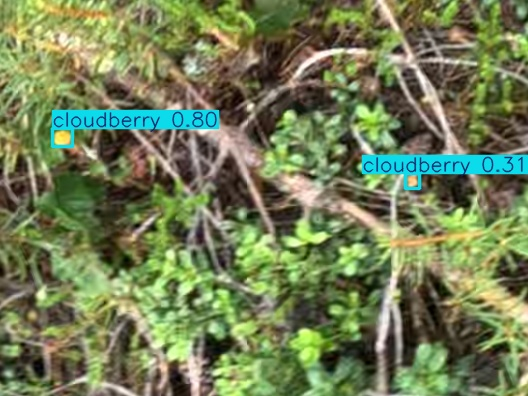
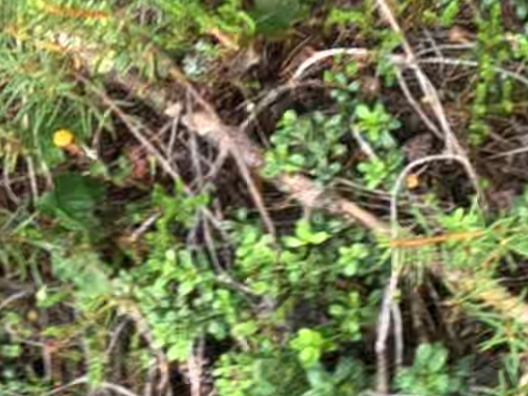
Use clean WildBe test photos as the detector examples
ml/examples/test_1-3.jpg were the detector's own output images (boxes and labels drawn on
them by the training notebook's .save()), so the tests ran the detector on photos with drawn
boxes and it reported bilberries that are not there. They are now the clean originals
(WildBe test split wildbe_00026-28, saved as JPEG like the app sends) with their true labels
(test_N.txt, YOLO format) and examples/README.md.

Tests: a new test checks the detector finds each labelled berry (test_2's cloudberry only
scores 0.15, a known miss at the default 0.25, so it is checked at 0.10). The Ultralytics
comparison now allows confidences within 0.02 (PIL vs OpenCV resizing); boxes and classes
match exactly.

Claude-Session: https://claude.ai/code/session_01S11xDQLLEN8rL3GrVjN9Kj

Changed region(s): [[0.6667, 0.3636, 1.0, 0.4848], [0.0909, 0.2727, 0.4242, 0.3939]]

diff --git a/ml/tests/test_detector.py b/ml/tests/test_detector.py
@@ -17,7 +17,34 @@ def test_counts_have_every_class_and_add_up(det):
     r = det.detect(EX / "test_1.jpg")
     assert set(r.counts) == set(CLASSES)
     assert sum(r.counts.values()) == r.total == len(r.detections)
-    assert r.counts["bilberry"] >= 1
+    assert r.counts["cloudberry"] >= 1
+
+
+def _truth(name):
+    """WildBe ground truth for an example photo: [(class, x1, y1, x2, y2)] in pixels."""
+    w, h = 528, 396
+    out = []
+    for line in (EX / name).with_suffix(".txt").read_text().split("\n"):
+        if line.strip():
+            c, cx, cy, bw, bh = line.split()
+            cx, cy, bw, bh = float(cx) * w, float(cy) * h, float(bw) * w, float(bh) * h
+            out.append((CLASSES[int(c)], cx - bw / 2, cy - bh / 2, cx + bw / 2, cy + bh / 2))
+    return out
+
+
+def _iou(a, b):
+    ix = max(0.0, min(a[2], b[2]) - max(a[0], b[0]))
+    iy = max(0.0, min(a[3], b[3]) - max(a[1], b[1]))
+    inter = ix * iy
+    return inter / ((a[2] - a[0]) * (a[3] - a[1]) + (b[2] - b[0]) * (b[3] - b[1]) - inter)
+
+
+@pytest.mark.parametrize(("name", "conf"), [("test_1.jpg", 0.25), ("test_3.jpg", 0.25),
+                                          ("test_2.jpg", 0.10)])  # test_2's berry only scores 0.15: a known miss at 0.25
+def test_finds_every_labelled_berry_in_the_clean_example_photos(det, name, conf):
+    found = det.detect(EX / name, conf=conf).detections
+    for berry, *box in _truth(name):
+        assert any(d.berry == berry and _iou(d.box, box) >= 0.5 for d in found), f"{name}: missed the {berry}"
 
 
 def test_boxes_are_inside_the_image(det):
@@ -44,11 +71,19 @@ def test_garbage_is_refused(det):
         det.detect(b"not an image")
 
 
-def test_matches_ultralytics_counts(det):
+def test_matches_ultralytics(det):
+    """Same boxes and classes as Ultralytics; confidences within 0.02 (PIL vs OpenCV resizing), so a detection
+    may only differ when its confidence is within 0.02 of the threshold."""
     yolo = pytest.importorskip("ultralytics").YOLO
     model = yolo(str(Path(__file__).resolve().parents[1] / "models/detector/v1/berry-yolo11n.onnx"), task="detect")
+    tol = 0.02
     for f in sorted(EX.glob("test_*.jpg")):
         for conf in (0.25, 0.1):
-            ours = det.detect(f, conf=conf).total
-            theirs = len(model.predict(str(f), conf=conf, imgsz=640, verbose=False)[0].boxes)
-            assert ours == theirs, (f.name, conf)
+            ours = [(d.berry, d.confidence, d.box) for d in det.detect(f, conf=conf - tol).detections]
+            r = model.predict(str(f), conf=conf - tol, imgsz=640, verbose=False)[0]
+            bx = r.boxes
+            theirs = [(r.names[int(c)], float(s), [float(v) for v in b]) for c, s, b in zip(bx.cls, bx.conf, bx.xyxy)]
+            for a_list, b_list in ((ours, theirs), (theirs, ours)):
+                for berry, sc, box in a_list:
+                    match = [x for x in b_list if x[0] == berry and _iou(x[2], box) >= 0.9 and abs(x[1] - sc) <= tol]
+                    assert match or sc < conf + tol, (f.name, conf, berry, round(sc, 3))

diff --git a/ml/README.md b/ml/README.md
@@ -27,7 +27,7 @@ uvicorn service.app:app --reload --port 8100    # reference API → http://local
 
 ```python
 from berry_ml import BerryDetector, ZoneGrid, Report, update_zone_score
-BerryDetector().detect("examples/test_1.jpg").counts            # {'bilberry': 2, ..., 'lingonberry': 1}
+BerryDetector().detect("examples/test_1.jpg").counts            # {'bilberry': 0, 'cloudberry': 2, ...}
 ZoneGrid().score_zone(ring, date="2026-07-25")["bilberry"]      # ZoneScore(score=49, confidence='medium', ripeness='ripe', ...)
 ```
 
@@ -55,7 +55,7 @@ ml/
   detection/prepare_wildbe.py    WildBe parquet → YOLO folders (90/10 split by source image, seed 42)
   yield/parse_marsi.py           parses Ruokavirasto's Marsi harvest reports (2013–2025)
   zones/build_zone_grid.py       builds the forest grid from Luke MS-NFI 2023 (runs locally)
-  examples/              ← 3 WildBe test photos used by the tests
+  examples/              ← 3 clean WildBe test photos (JPEG) + their true labels (.txt, YOLO format)
   tests/                 ← detector (incl. parity with Ultralytics), zones (app payload rules), reports, service
 ```
 
@@ -64,7 +64,8 @@ ml/
 1. **Detector** — `notebooks/BPA_Berry_Detection_YOLO.ipynb` on Kaggle (GPU T4): WildBe (HF `FBK-TeV/WildBe`,
    3,516 images, 18,468 boxes) → 2,852 train / 176 val / 312 test → YOLO11n, imgsz 640, 89 epochs (early stop,
    patience 20), seed 42 → ONNX export. `berry_ml.detector` re-implements the pre/post-processing in numpy and
-   matches Ultralytics' counts exactly on the test photos (`tests/test_detector.py`).
+   gives the same boxes and classes as Ultralytics on the test photos, confidences within 0.02
+   (`tests/test_detector.py`).
 2. **Season quality** — `BPA_Weather_Features` (FMI open data, 16 regions, 2000–2025) + `BPA_Harvest_Labels`
    (Marsi PDFs → `marsi_labels.csv`, 109 rows) → `BPA_Yield_Model`: gradient boosting, ridge and a frost rule
    tested leave-one-year-out against the normal-year baseline. Bilberry MAE: baseline 0.78, frost rule 0.79,

diff --git a/ml/examples/README.md b/ml/examples/README.md
@@ -1,0 +1,17 @@
+# Example photos (used by the tests and the live check)
+
+Three photos from the WildBe **test** split (never seen in training), saved as JPEG like the app sends.
+Each `.txt` is the photo's true label in YOLO format: `class cx cy w h` (0-1 of the image size;
+classes 0 bilberry, 1 cloudberry, 2 crowberry, 3 lingonberry).
+
+| Photo | WildBe file | True berries | Detector v1 finds (confidence) |
+|---|---|---|---|
+| test_1.jpg | wildbe_00026 | 1 cloudberry | cloudberry 0.80 (the true one) + cloudberry 0.34 (false positive) |
+| test_2.jpg | wildbe_00027 | 1 cloudberry | cloudberry 0.37 at another spot (false positive); the true cloudberry only scores 0.15, so it is **missed** at the default 0.25 threshold |
+| test_3.jpg | wildbe_00028 | 1 cloudberry | cloudberry 0.83 + crowberry 0.35 (false positive) |
+
+Until 2026-11-22 these files were the detector's *output* images (boxes and labels drawn on them), so
+the detector was tested on photos with drawn boxes, which made it report bilberries that are not there.
+
+Our ONNX detector gives the same boxes and classes as Ultralytics; confidences differ by up to about 0.01
+because the photo is resized with PIL instead of OpenCV (`tests/test_detector.py::test_matches_ultralytics`).
